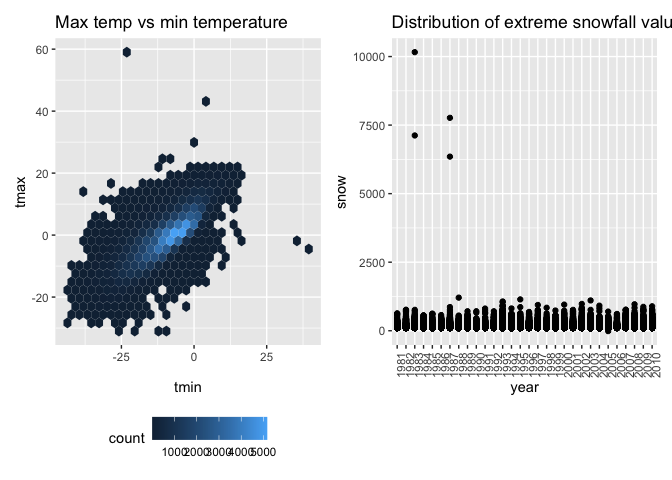
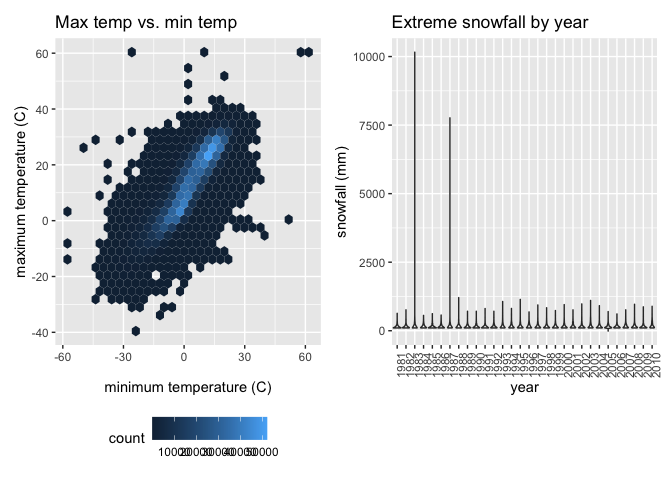
Problem 3 updates commit

diff --git a/p8105_hw3_sef2183.md b/p8105_hw3_sef2183.md
@@ -663,7 +663,7 @@ jan_tmax_line =
   filter(month == "01") %>% 
   mutate(mean_tmax = mean(tmax, na.rm = TRUE)) %>% 
   ggplot(aes(x = year, y = mean_tmax, group = id, color = id)) + 
-  theme(axis.text.x = element_text(angle = 90, hjust = 1)) + geom_line(show.legend = FALSE) + ylab("mean maximum temperature") + ggtitle("Avg max temp in January")
+  theme(axis.text.x = element_text(angle = 90, hjust = 1)) + geom_line(show.legend = FALSE) + ylab("mean maximum temperature (C)") + ggtitle("Avg max temp in January")
 
 jul_tmax_line = 
   ny_noaa_df %>%
@@ -671,7 +671,7 @@ jul_tmax_line =
   filter(month == "07") %>% 
   mutate(mean_tmax = mean(tmax, na.rm = TRUE)) %>% 
   ggplot(aes(x = year, y = mean_tmax, group = id, color = id)) + 
-  theme(axis.text.x = element_text(angle = 90,hjust = 1)) + geom_line(show.legend = FALSE) + ylab("mean maximum temperature") + ggtitle("Avg max temp in July")
+  theme(axis.text.x = element_text(angle = 90,hjust = 1)) + geom_line(show.legend = FALSE) + ylab("mean maximum temperature (C)") + ggtitle("Avg max temp in July")
 
 jan_tmax_line + jul_tmax_line
 ## Warning: Removed 90055 row(s) containing missing values (geom_path).
@@ -684,56 +684,45 @@ jan_tmax_line + jul_tmax_line
     maximum temperature for both the months of January and July
     oscillate higher and lower, with high peaks occurring roughly every
     4 years. Most of the data follows the same general oscillating
-    pattern, however there are some outliers
+    pattern, however there are some outliers.
 -   There are outliers in the data for both months. In January, there
     was a weather station that recorded a very low mean average
-    temperature of about -16 degrees C around 1982. In July, there was
-    also a weather station that recorded a low mean average temperature
-    of about 19 degrees C around 1984, an even temperature of about 14
-    degrees C around 1987, and outliers of around about 18 and 19
-    degrees C around 2003 and 2006.
+    temperature of about -16 degrees C in 1982. In July, there was also
+    a weather station that recorded a low mean average temperature of
+    about 19 degrees C in 1984, an even temperature of about 14 degrees
+    C around 1988, and outliers of about 18 and 19 degrees C in 2004 and
+    2007.
 
 ## Plot of tmax vs tmin for the full dataset (panel 1) and the distribution of snowfall values greater than 0 and less than 100 separately by year (panel 2)
 
-Below, a two-panel plot depicting
-
-We want to limit the values of snowfall to the criteria specified and
-then use ggplot to plot the distribution (density plot).
+Below, a two-panel plot depicting the minimum temperature vs. the
+maximum temperature for the full dataset as well as the distribution of
+snowfall values greater than 0 and less than 100 are displayed side by
+side. For the first plot, an object was created and `ggplot()` was used
+to plot the maximum temperatures against the minimum temperatures in the
+entire dataset. Rather than a scatterplot, a hexagonal heatmap was
+created using `geom_hex()` to display the density coloring of the data
+points. For the second plot, the dataset was filtered to include only
+extreme values of snowfall less than 0 and greater than 100 using
+`filter()`, and grouped by year using `group_by()`. `ggplot()` was used
+to create a distribution (density) plot using `geom_violin()`. Finally,
+the two panels were plotted side by side.
 
 ``` r
 i_p = ny_noaa_df %>%
-  filter(month == "01") %>% 
   ggplot(aes(x = tmin, y = tmax)) +  
-  theme(legend.position = "bottom") + geom_hex() +
-  ggtitle("Max temp vs min temperature")
+  theme(legend.position = "bottom") + geom_hex() + xlab("minimum temperature (C)") + ylab("maximum temperature (C)") + 
+  ggtitle("Max temp vs. min temp")
 
 ii_p = ny_noaa_df %>%
   filter(snow < 0 | snow > 100) %>% 
   group_by(year) %>% 
   ggplot(aes(x = year, y = snow)) + 
-  theme(axis.text.x = element_text(angle = 90,hjust = 1)) + geom_point() +
-  ggtitle("Distribution of extreme snowfall values by year")
+  theme(axis.text.x = element_text(angle = 90,hjust = 1)) + geom_violin() + ylab("snowfall (mm)") +
+  ggtitle("Extreme snowfall by year")
 
 i_p + ii_p
-## Warning: Removed 93189 rows containing non-finite values (stat_binhex).
+## Warning: Removed 1136276 rows containing non-finite values (stat_binhex).
 ```
 
 ![](p8105_hw3_sef2183_files/figure-gfm/problem%203%20tmax%20vs%20tmin%20and%20snowfall%20plots-1.png)<!-- -->
-
-NOTE ABOUT THE SNOW VARIABLE FROM DISCUSSION BOARD
-
-As for the final plot, you should filter values based on the original
-definition of snowfall (i.e., using the original units). To that end,
-you might want to consider retaining both the original variable snow as
-well as your proposal for a variable with a more sensical unit. As long
-as you’re clear about how you label values and units in your
-visualizations, you should be good!
-
-Hello, Haochen!
-
-You should make a single plot for part (i) and a single plot for part
-(ii). Then, you should combine these two plots side by side into a
-single-panel exhibit; you can find a refresher on how to do that
-hereLinks to an external site.. For the first plot, you are correct that
-“vs” implies tmax should be on the vertical axis and that tmin should be
-on the horizontal axis.
